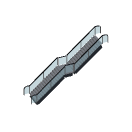
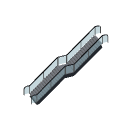
Fix gaps in long stair models

Changed region(s): [[0.4242, 0.3939, 0.5758, 0.6061], [0.5455, 0.5455, 0.5758, 0.5758]]

diff --git a/game/src/render/models/pieces/StairModel.ts b/game/src/render/models/pieces/StairModel.ts
@@ -83,7 +83,7 @@ function buildStair(ctx: ModuleContext, mod: Extract<Module, { type: 'stair' }>)
     g.add(buildStairFlight(ctx.mats, surface, from, to, width, renderOuter, mates, walls, slide))
   }
   for (let i = 0; i + 1 < flights.length; i++) {
-    g.add(buildStairLanding(ctx.mats, surface, flights[i], flights[i + 1], stairLandingShape(mod, i), stairLandingWalls(ctx.data.cells, mod, i), mod.cfg.style?.endsWith('Forward') ? { width, incoming: slides[i], outgoing: slides[i + 1] } : undefined))
+    g.add(buildStairLanding(ctx.mats, surface, flights[i], flights[i + 1], stairLandingShape(mod, i), stairLandingWalls(ctx.data.cells, mod, i), { width, incoming: slides[i], outgoing: slides[i + 1] }))
   }
   return g
 }
@@ -233,6 +233,28 @@ function buildStairFlight(
   const underside = rise / 2 - STAIR_BODY_DROP
   /** The length that puts a beam's square-cut lower corner on the treads' edge. */
   const beamLen = (thickness: number): number => slopeLen - thickness * Math.tan(theta)
+  // Interior joints meet a vertical landing fascia. Extend the square-cut beam
+  // corners to that plane, preserving the sloping top and underside.
+  const fitLandingEnds = (mesh: THREE.Mesh): void => {
+    const positions = mesh.geometry.getAttribute('position')
+    const point = new THREE.Vector3()
+    for (let i = 0; i < positions.count; i++) {
+      point.fromBufferAttribute(positions, i)
+      const side = point.x < 0 ? -1 : 1
+      point.applyAxisAngle(new THREE.Vector3(0, 1, 0), -theta)
+      const end = side < 0 ? lower : upper
+      if (!outer.has(`${end.x},${end.y},${end.z}`)) {
+        const x = side * stairRun / 2
+        point.z += (x - point.x) * Math.tan(theta)
+        point.x = x
+      }
+      point.applyAxisAngle(new THREE.Vector3(0, 1, 0), theta)
+      positions.setXYZ(i, point.x, point.y, point.z)
+    }
+    mesh.geometry.computeVertexNormals()
+    mesh.geometry.computeBoundingBox()
+    mesh.geometry.computeBoundingSphere()
+  }
   for (const s of [1, -1]) {
     if (openSides.has(s)) continue
     // The stringer runs the incline on every side the flight keeps, a walled one
@@ -242,6 +264,8 @@ function buildStairFlight(
     // the rail: no strip of exposed ground between the stair and its block edge.
     const beam = slab(g, mats.darkSteel, midX, s * (half + 0.05), underside + STAIR_STRINGER_T / 2, beamLen(STAIR_STRINGER_T), 0.11, STAIR_STRINGER_T)
     beam.rotation.y = -theta
+    beam.name = 'stair-stringer'
+    fitLandingEnds(beam)
     surfaceModelDetail(beam, 'y')
     // A wall hugging this side is already the barrier: no handrail, no rail posts.
     if (wallSides.has(s)) continue
@@ -275,6 +299,8 @@ function buildStairFlight(
   const sHi = yHi + (joinSides.has(1) ? 0 : 0.03)
   const soffit = slab(g, mats.darkSteel, midX, (sLo + sHi) / 2, underside + STAIR_SOFFIT_T / 2, beamLen(STAIR_SOFFIT_T), sHi - sLo, STAIR_SOFFIT_T)
   soffit.rotation.y = -theta
+  soffit.name = 'stair-soffit'
+  fitLandingEnds(soffit)
   surfaceModelDetail(soffit, 'z', -1)
   // The outer handrails level off at each landing and turn down into a newel
   // post on the floor, so a stair rail wraps round and reaches the ground instead
@@ -396,7 +422,7 @@ function buildStairLanding(
   // frame, so the landing is part of the piece rather than a placed block.
   const surfaceTop = finishSlab(g, surface, cx, cy, top - STAIR_TREAD_T / 2, sx, sy, STAIR_TREAD_T)
   surfaceTop.name = 'stair-landing-surface'
-  const frame = slab(g, mats.darkSteel, cx, cy, top - STAIR_TREAD_T - (STAIR_LANDING_T - STAIR_TREAD_T) / 2, sx - 0.18, sy - 0.18, STAIR_LANDING_T - STAIR_TREAD_T)
+  const frame = slab(g, mats.darkSteel, cx, cy, top - STAIR_TREAD_T - (STAIR_LANDING_T - STAIR_TREAD_T) / 2, sx, sy, STAIR_LANDING_T - STAIR_TREAD_T)
   frame.name = 'stair-landing-frame'
 
   // Which perimeter edges a flight attaches to: the side the flight body sits
@@ -412,19 +438,33 @@ function buildStairLanding(
   attachEdge(fout.from, fout.to) // the outgoing flight, beyond the landing
 
   const RAIL = 0.95
+  // Each platform axis may end at a tread edge or a whole landing-cell edge.
+  // Resolve its rail line from the adjoining flight rather than a fixed inset.
+  const railLine = (axis: 'x' | 'y', edge: number): number => {
+    const candidates: number[] = []
+    for (const [f, slide] of [[fin, forward?.incoming], [fout, forward?.outgoing]] as const) {
+      if (!forward || f.from[axis] !== f.to[axis]) continue
+      const centre = f.from[axis] + 0.5 + (axis === 'x' ? slide?.dx ?? 0 : slide?.dy ?? 0)
+      candidates.push(centre - forward.width / 2 - 0.07, centre + forward.width / 2 + 0.07)
+    }
+    const closest = candidates.sort((a, b) => Math.abs(a - edge) - Math.abs(b - edge))[0]
+    return closest !== undefined && Math.abs(closest - edge) < 0.22 ? closest : edge
+  }
+  const rx0 = railLine('x', x0), rx1 = railLine('x', x1)
+  const ry0 = railLine('y', y0), ry1 = railLine('y', y1)
   const rail = (edge: string, lo?: number, hi?: number): void => {
     const horizontal = edge === 's' || edge === 'n'
-    const start = lo ?? (horizontal ? x0 : y0)
-    const end = hi ?? (horizontal ? x1 : y1)
+    const start = lo ?? (horizontal ? rx0 : ry0)
+    const end = hi ?? (horizontal ? rx1 : ry1)
     const length = end - start
     const mid = (start + end) / 2
     if (edge === 's' || edge === 'n') {
-      const y = edge === 's' ? y0 + 0.04 : y1 - 0.04
+      const y = edge === 's' ? ry0 : ry1
       slab(g, mats.handrail, mid, y, top + RAIL, length, 0.06, 0.06)
       slab(g, mats.glass, mid, y, top + RAIL / 2, Math.max(0.01, length - 0.2), 0.025, RAIL - 0.16)
       for (const px of [start + 0.07, end - 0.07]) omitModelDetail(slab(g, mats.steel, px, y, top + RAIL / 2, 0.05, 0.05, RAIL))
     } else {
-      const x = edge === 'w' ? x0 + 0.04 : x1 - 0.04
+      const x = edge === 'w' ? rx0 : rx1
       slab(g, mats.handrail, x, mid, top + RAIL, 0.06, length, 0.06)
       slab(g, mats.glass, x, mid, top + RAIL / 2, 0.025, Math.max(0.01, length - 0.2), RAIL - 0.16)
       for (const py of [start + 0.07, end - 0.07]) omitModelDetail(slab(g, mats.steel, x, py, top + RAIL / 2, 0.05, 0.05, RAIL))
@@ -434,7 +474,8 @@ function buildStairLanding(
   for (const edge of edges) {
     if (walls[edge]) continue
     if (!attached.has(edge)) { rail(edge); continue }
-    if (!forward) continue
+    if (!forward || (fin.to.x - fin.from.x) * (fout.to.x - fout.from.x)
+      + (fin.to.y - fin.from.y) * (fout.to.y - fout.from.y) <= 0) continue
     // Forward offset flights attach to opposite halves; rail the exposed remainder.
     const horizontal = edge === 's' || edge === 'n'
     const incomingEdge = Math.abs(fin.from.x - a.x) >= Math.abs(fin.from.y - a.y)
@@ -446,8 +487,8 @@ function buildStairLanding(
     const hi = horizontal ? x1 : y1
     const openLo = centre - forward.width / 2
     const openHi = centre + forward.width / 2
-    if (openLo - lo > 0.1) rail(edge, lo, openLo)
-    if (hi - openHi > 0.1) rail(edge, openHi, hi)
+    if (openLo - lo > 0.1) rail(edge, horizontal ? rx0 : ry0, openLo - 0.07)
+    if (hi - openHi > 0.1) rail(edge, openHi + 0.07, horizontal ? rx1 : ry1)
   }
   return g
 }
